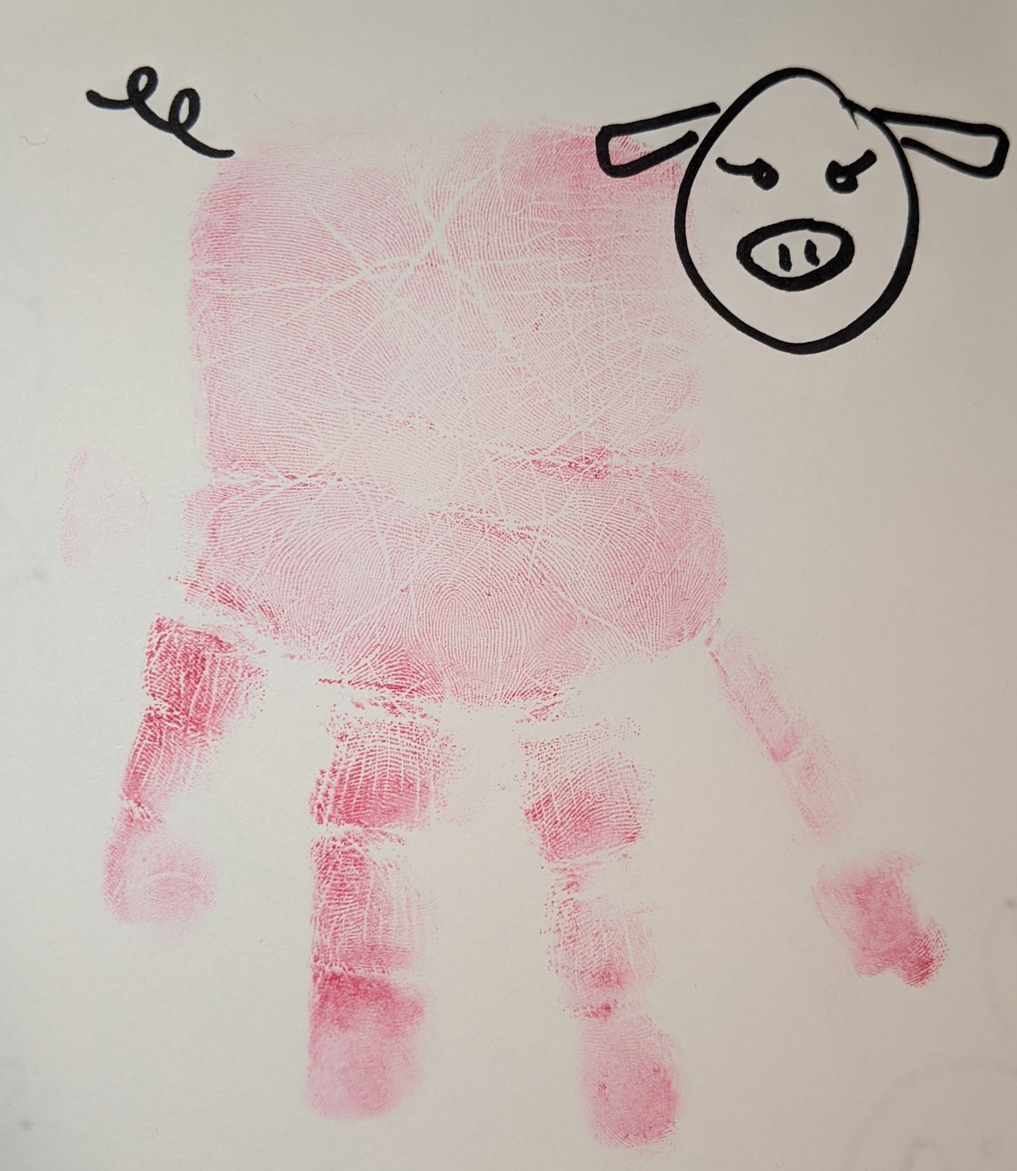
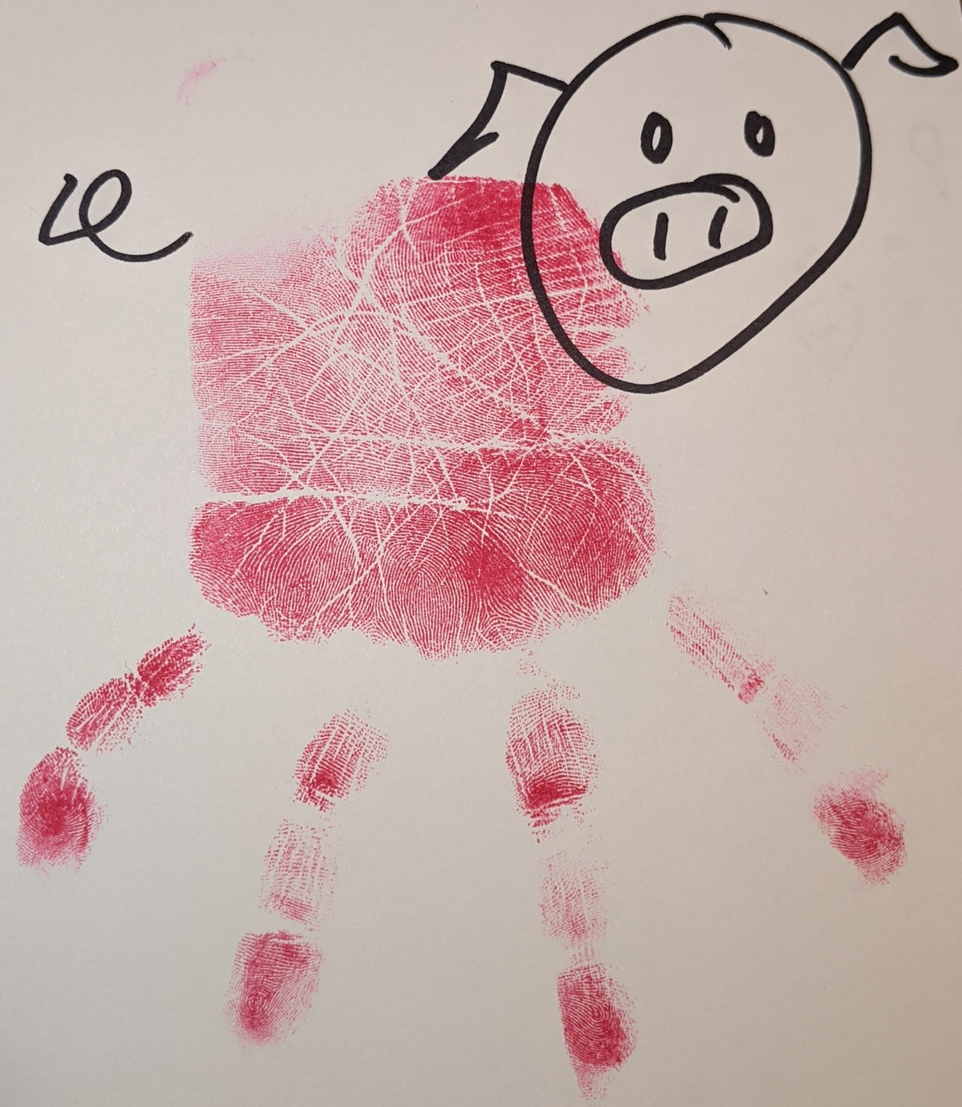
updated images

diff --git a/src/pages/i-love-you-always-everywhere.js b/src/pages/i-love-you-always-everywhere.js
@@ -52,7 +52,7 @@ function ILoveYouAlwaysEverywherePage(props) {
         I love you many
          different ways.
         "
-        subtitle="I Love you"
+        subtitle=""
         image="manyDifferent.png"
       />
       <Example
@@ -67,7 +67,7 @@ function ILoveYouAlwaysEverywherePage(props) {
 
         I love you in the 
         night."
-        subtitle="I Love you"
+        subtitle=""
         image="morningNight.png"
       />
       <Example
@@ -83,7 +83,7 @@ function ILoveYouAlwaysEverywherePage(props) {
         I love you with all 
         my might.
         "
-        subtitle="I Love you"
+        subtitle=""
         image="tightPants.png"
       />
       <Example
@@ -97,7 +97,7 @@ function ILoveYouAlwaysEverywherePage(props) {
 
         I love you when you’re far.
         "
-        subtitle="I Love you"
+        subtitle=""
         image="closeFar.png"
       />
       <Example
@@ -108,7 +108,7 @@ function ILoveYouAlwaysEverywherePage(props) {
         bgImageOpacity={1}
         title="
         I love you even when we have to see you from the car."
-        subtitle="I Love you"
+        subtitle=""
         image="car.png"
       />
       <Example
@@ -120,7 +120,7 @@ function ILoveYouAlwaysEverywherePage(props) {
         title="
         I love you on the screen.
         "
-        subtitle="I Love you"
+        subtitle=""
         image="screen.jpg"
       />
       <Example
@@ -131,7 +131,7 @@ function ILoveYouAlwaysEverywherePage(props) {
         bgImageOpacity={1}
         title="
         I love you on Halloween."
-        subtitle="I Love you"
+        subtitle=""
         image="halloween.png"
       />
       <Example
@@ -143,7 +143,7 @@ function ILoveYouAlwaysEverywherePage(props) {
         title="
         I love you when it’s noon.
         I love you to the moon!"
-        subtitle="I Love you"
+        subtitle=""
         image="moon.png"
       />
       <Example
@@ -155,7 +155,7 @@ function ILoveYouAlwaysEverywherePage(props) {
         title="
         I love you when you’re out of sight.
         I love you when we fly a kite."
-        subtitle="I Love you"
+        subtitle=""
         image="kite.png"
       />
        <Example
@@ -168,7 +168,7 @@ function ILoveYouAlwaysEverywherePage(props) {
         I love you when I lose my cool.
         I love you when we splash in the pool.
         "
-        subtitle="I Love you"
+        subtitle=""
         image="swim.png"
       />
       <Example
@@ -180,7 +180,7 @@ function ILoveYouAlwaysEverywherePage(props) {
         title="
         I love you when we’re having fun.
         "
-        subtitle="I Love you"
+        subtitle=""
         image="camp.png"
       />
       <Example
@@ -192,7 +192,7 @@ function ILoveYouAlwaysEverywherePage(props) {
         title="
         I love you when we’re having none.
         "
-        subtitle="I Love you"
+        subtitle=""
         image="campRain.png"
       />
       <Example
@@ -205,7 +205,7 @@ function ILoveYouAlwaysEverywherePage(props) {
         I love you when you have crazy hair.
         I love you always, everywhere.
         "
-        subtitle="I Love you"
+        subtitle=""
         image="crazyHair.png"
       />
     </>

diff --git a/src/pages/old-macdonalds-handprint-farm.js b/src/pages/old-macdonalds-handprint-farm.js
@@ -96,7 +96,7 @@ function OldMacdonaldsHandprintFarmPage(props) {
         bgImageOpacity={1}
         title="Old MacDonald Had a Pig"
         subtitle="E-I-E-I-O"
-        image="cow.png"
+        image="pig.png"
       />
       <Example
         bg="white"
@@ -106,7 +106,7 @@ function OldMacdonaldsHandprintFarmPage(props) {
         bgImageOpacity={1}
         title="Old MacDonald Had a Dog"
         subtitle="E-I-E-I-O"
-        image="cow.png"
+        image="dog.png"
       />
       <Example
         bg="white"

diff --git a/src/pages/index.js b/src/pages/index.js
@@ -23,7 +23,7 @@ function IndexPage(props) {
         bgImageOpacity={1}
         title="I Love You Always, Everywhere"
         subtitle=""
-        buttonText="See Instructions & Tips"
+        buttonText="See Illustration Ideas & Tips"
         buttonColor="primary"
         image="kite.png"
         buttonOnClick={() => {
